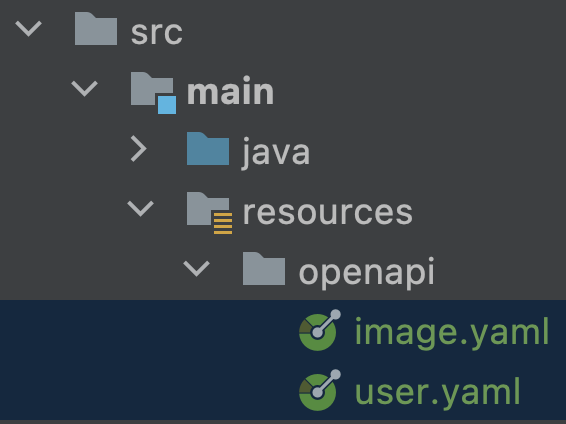
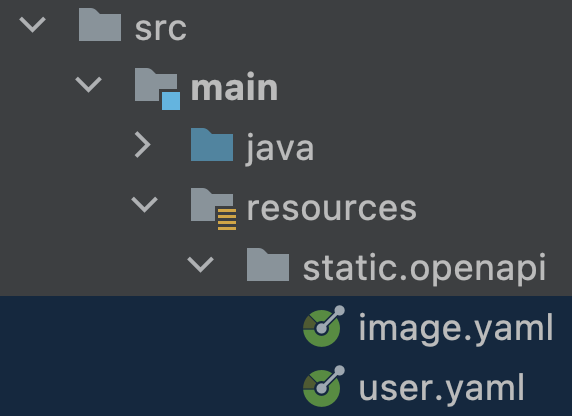
Update README.md

diff --git a/README.md b/README.md
@@ -7,7 +7,7 @@ Describe how to generate REST API interfaces using OpenAPI specifications.
 Provide the configuration in the below image.
 <img src="images/spring-initializr-config.png">
 
-## 2. Create "OpenAPI specifications" in /src/main/resources/openapi
+## 2. Create "OpenAPI specifications" in /src/main/resources/static/openapi
 <img src="images/openapi-specifications.png" width=400 alt="openapi-specifications">
 
 ---
@@ -43,11 +43,11 @@ plugins {
 ```
 
 ### 3-3. Set the [configuration parameters](https://github.com/OpenAPITools/openapi-generator/blob/master/modules/openapi-generator-gradle-plugin/README.adoc) for the openApiGenerate task provided by the plugin
-Parameters contain the generator, location of the openapi spec, output directory, and the package name for the generated interface and model.
+Parameters contain the generator, location of the openapi specs, output directory, and the package name for the generated interfaces and models.
 ```groovy
 openApiGenerate {
 	generatorName = 'spring'
-	inputSpec = file("${projectDir}/src/main/resources/openapi/user.yaml").toString()
+	inputSpec = file("${projectDir}/src/main/resources/static/openapi/user.yaml").toString()
 	outputDir = file("${buildDir}/generated/openapi").toString()
 	apiPackage = 'fun.mouyang.interfaces.rest.controller'
 	modelPackage = 'fun.mouyang.interfaces.rest.dto'
@@ -58,7 +58,7 @@ openApiGenerate {
 }
 ```
 
-### 3-4. Add the directory that contains the generated interface and model to the project source sets
+### 3-4. Add the directory that contains the generated interfaces and models to the project source sets
 ```groovy
 sourceSets {
     main {
